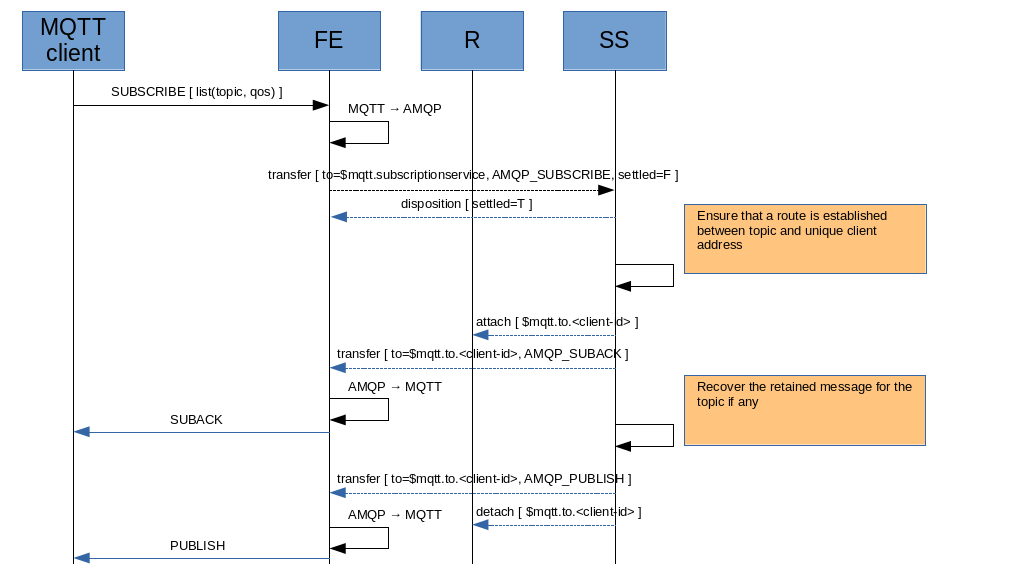
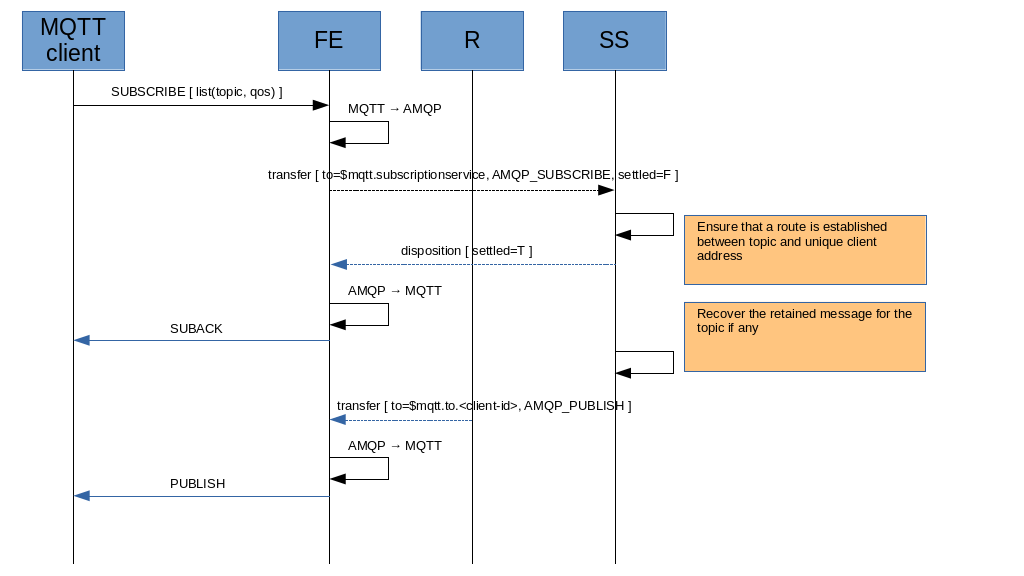
Updated images related to new way for subscription/unsubscription

diff --git a/mqtt-over-amqp/docs/operations_subscription_unsubscription.md b/mqtt-over-amqp/docs/operations_subscription_unsubscription.md
@@ -25,13 +25,7 @@ The _AMQP_SUBSCRIBE_ is sent as "unsettled", in order to know that the Subscript
 * ACCEPTED : then the FE builds a _SUBACK_ message for MQTT client using the same requested QoS as granted QoS
 * REJECTED : then the FE builds a _SUBACK_ message for MQTT client using 0x80 (failure) as granted QoS
 
-The FE could also receive the following message as reply on the unique client address.
-
-**AMQP_PUBLISH** : the retained message to deliver to the client (see “Publishing”)
-
-> the retained message is sent to the unique client address and it's not published on the topic because only that client should receive the message (not all the other subscribers for the topic itself).
-
-Finally, the FE builds the _SUBACK_ message as response for the MQTT client and eventually the _PUBLISH_ for a retained message.
+The FE builds the _SUBACK_ message as response for the MQTT client.
 
 **SUBACK**
 
@@ -40,7 +34,13 @@ Finally, the FE builds the _SUBACK_ message as response for the MQTT client and 
 | MessagId | message-id | AMQP_SUBSCRIBE |
 | Return codes | List of granted QoS (or failure) | AMQP_SUBSCRIBE |
 
-When subscribed/attached, the FE receives published messages on the unique client address :
+The FE could also receive the following _AMQP_PUBLISH_ message (as a retained message) on the unique client address and builds the _PUBLISH_ for the MQTT client.
+
+**AMQP_PUBLISH** : the retained message to deliver to the client (see “Publishing”)
+
+> the retained message is sent to the unique client address and it's not published on the topic because only that client should receive the message (not all the other subscribers for the topic itself).
+
+Starting from now, when subscribed/attached, the FE receives published messages on the unique client address :
 
 * $mqtt.to.[client-id]
 
